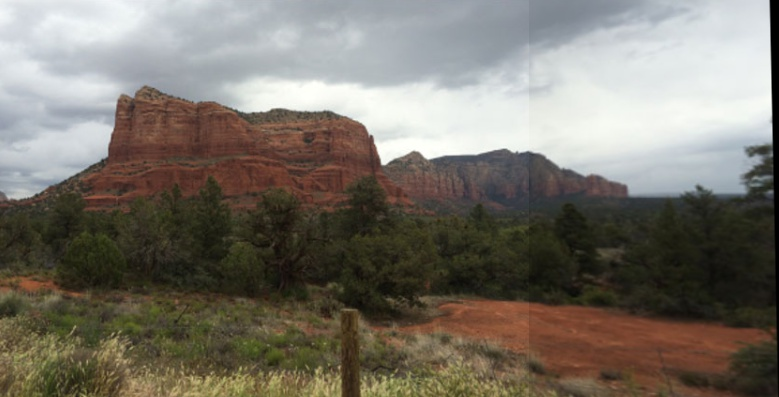
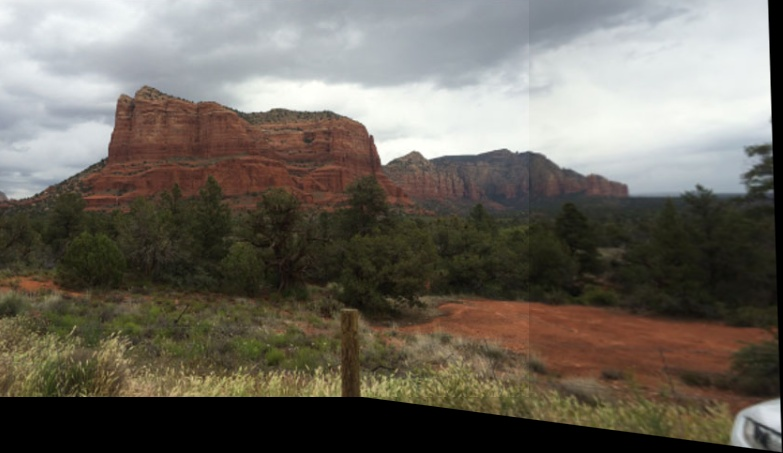
update project2

diff --git a/project2/task1.py b/project2/task1.py
@@ -35,8 +35,10 @@ def solution(input_points, t, d, k):
     num = len(input_points)
     i = 0
     pList = []
-    final_dis = 0
+    final_err = 9999
+
     while i < k and i < num*(num-1)/2:
+        # store inlier points and outlier points of the current iteration
         this_inlier_points = []
         this_outlier_points = []
 
@@ -44,6 +46,7 @@ def solution(input_points, t, d, k):
 
         str1 = p[0]['name']+p[1]['name']
         str2 = p[1]['name']+p[0]['name']
+        # randomly select two points, if the two points have been calculated before, randomly select the points again.
         if str1 not in pList and str2 not in pList:
             this_inlier_points.append(p[0]['name'])
             this_inlier_points.append(p[1]['name'])
@@ -52,7 +55,6 @@ def solution(input_points, t, d, k):
                 p = random.sample(input_points, 2)
                 str1 = p[0]['name']+p[1]['name']
                 str2 = p[1]['name']+p[0]['name']
-
             this_inlier_points.append(p[0]['name'])
             this_inlier_points.append(p[1]['name'])
 
@@ -62,12 +64,12 @@ def solution(input_points, t, d, k):
         x2 = p[1]['value'][0]
         y1 = p[0]['value'][1]
         y2 = p[1]['value'][1]
-        
+
         line_type = 0
-        if x2-x1 == 0:
+        if x2 == x1:
             line_type = 1  # the line is parallel to y-axis
             m = x2
-        elif y2-y1 == 0:
+        elif y2 == y1:
             line_type = 2  # the line is parallel to x-axis
             m = y1
 
@@ -82,24 +84,27 @@ def solution(input_points, t, d, k):
                     distance = x0 - m
                 else:
                     distance = y0 - m
-
-                this_dis = this_dis + distance
+                
+                # judge whether it is an inlier point or a outlier point by distance 
                 if abs(distance) > t:
                     this_outlier_points.append(item['name'])
                 else:
                     this_inlier_points.append(item['name'])
+                    this_dis += abs(distance)
 
-        if len(this_inlier_points) > d and this_dis > final_dis:
-            inlier_points_names = this_inlier_points
-            outlier_points_names = this_outlier_points
-            final_dis = this_dis
+        if (len(this_inlier_points) - 2) >= d:
+            # calculate error, if current error less than final_err,
+            # then set final_err, inlier_points_names and outlier_points_names as current data
+            this_err = this_dis / (len(this_inlier_points) - 2)
+            if this_err < final_err:
+                inlier_points_names = this_inlier_points
+                outlier_points_names = this_outlier_points
+                final_err = this_err
 
         i = i+1
 
     inlier_points_names.sort()
     outlier_points_names.sort()
-    print(inlier_points_names)
-    print(outlier_points_names)
     return inlier_points_names, outlier_points_names
     raise NotImplementedError
 
@@ -109,17 +114,15 @@ def getDis(pointx, pointy, linex1, liney1, linex2, liney2):
     a = liney2-liney1
     b = linex1-linex2
     c = linex2*liney1-linex1*liney2
-    dis = (abs(a*pointx+b*pointy+c))/(pow(a*a+b*b,0.5))
+    dis = (abs(a*pointx+b*pointy+c))/(pow(a*a+b*b, 0.5))
     return dis
 
 
 if __name__ == "__main__":
     input_points = [{'name': 'a', 'value': (0.0, 1.0)}, {'name': 'b', 'value': (2.0, 1.0)},
-                    {'name': 'c', 'value': (3.0, 1.0)}, {
-        'name': 'd', 'value': (0.0, 3.0)},
-        {'name': 'e', 'value': (1.0, 2.0)}, {
-        'name': 'f', 'value': (1.5, 1.5)},
-        {'name': 'g', 'value': (1.0, 1.0)}, {'name': 'h', 'value': (1.5, 2.0)}]
+                    {'name': 'c', 'value': (3.0, 1.0)}, {'name': 'd', 'value': (0.0, 3.0)},
+                    {'name': 'e', 'value': (1.0, 2.0)}, {'name': 'f', 'value': (1.5, 1.5)},
+                    {'name': 'g', 'value': (1.0, 1.0)}, {'name': 'h', 'value': (1.5, 2.0)}]
 
     t = 0.5
     d = 3

diff --git a/project2/task2.py b/project2/task2.py
@@ -15,6 +15,7 @@ APIs that have “stitch”, “Stitch”, “match” or “Match” in their n
 """
 import cv2
 import numpy as np
+import random
 
 
 # find keypoints and use SIFT descriptors to extract features for these keypoints
@@ -26,7 +27,7 @@ def sift(img):
     return kp, des
 
 
-# match the keypoints between two images
+# match keypoints between two images
 def matchKeypoints(des1, des2):
     # use KNN-matching algorithm to get the two closest descriptor
     matcher = cv2.DescriptorMatcher_create("BruteForce")
@@ -36,7 +37,7 @@ def matchKeypoints(des1, des2):
     # calculate the ratio between the two closest distance
     # if the ratio is greater than the predetermined value, it is taken as the final match.
     for item in knn_match:
-        if len(item) == 2 and item[0].distance < item[1].distance * 0.7:
+        if len(item) == 2 and item[0].distance < item[1].distance * 0.75:
             matches.append((item[0].trainIdx, item[0].queryIdx))
     return matches
 
@@ -46,16 +47,17 @@ def findHomography(kp1, kp2, matches):
     if len(matches) > 4:
         pt1 = np.float32([kp1[i] for (_, i) in matches])
         pt2 = np.float32([kp2[i] for (i, _) in matches])
-        (M, status) = cv2.findHomography(pt1, pt2, cv2.RANSAC, 3)
-        # return the matches along with the homograpy matrix and status of each matched point
+        (M, status) = cv2.findHomography(pt1, pt2, cv2.RANSAC, 5.0)  # return the matches along with the homograpy matrix and status of each matched point
         return M
     else:
-        return None, None
+        return None
 
 
 #  stitch the two given images
 def stitch(img1, img2, HM):
-    wrap = cv2.warpPerspective(img1, HM, (img1.shape[1] + img2.shape[1], img1.shape[0]))
+    # Applies a perspective transformation to an image.
+    wrap = cv2.warpPerspective(img1, HM, (img1.shape[1] + img2.shape[1], img1.shape[0]+img2.shape[0]))
+    # stitch the left image
     wrap[0:img2.shape[0], 0:img2.shape[1]] = img2
 
     # remove the black border
